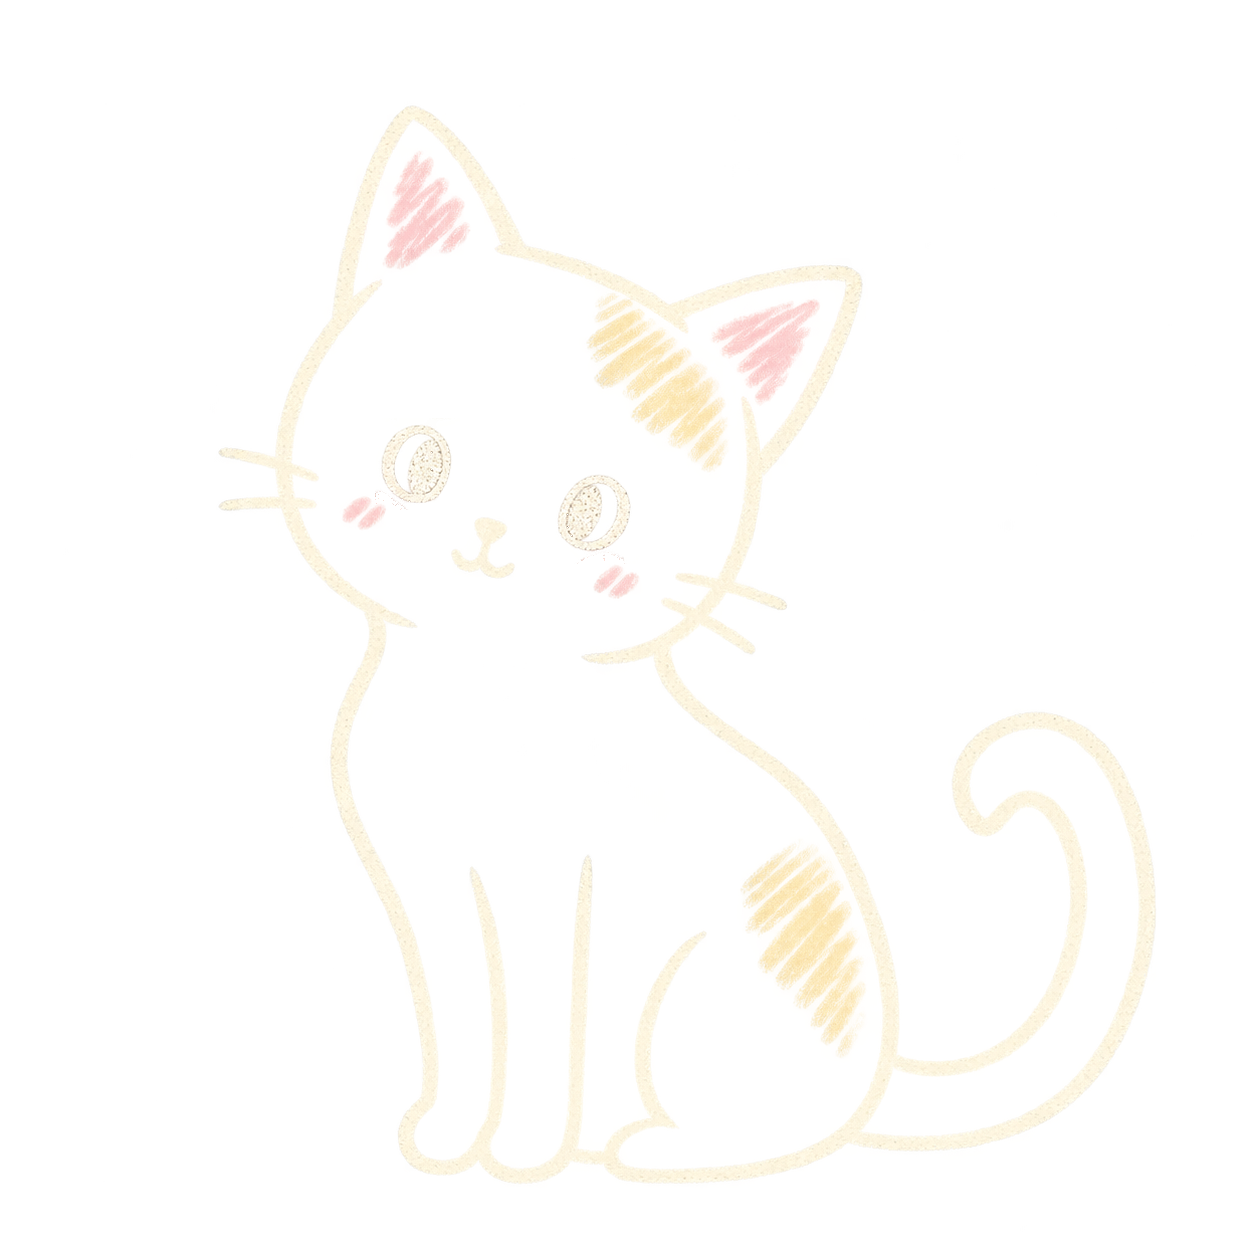
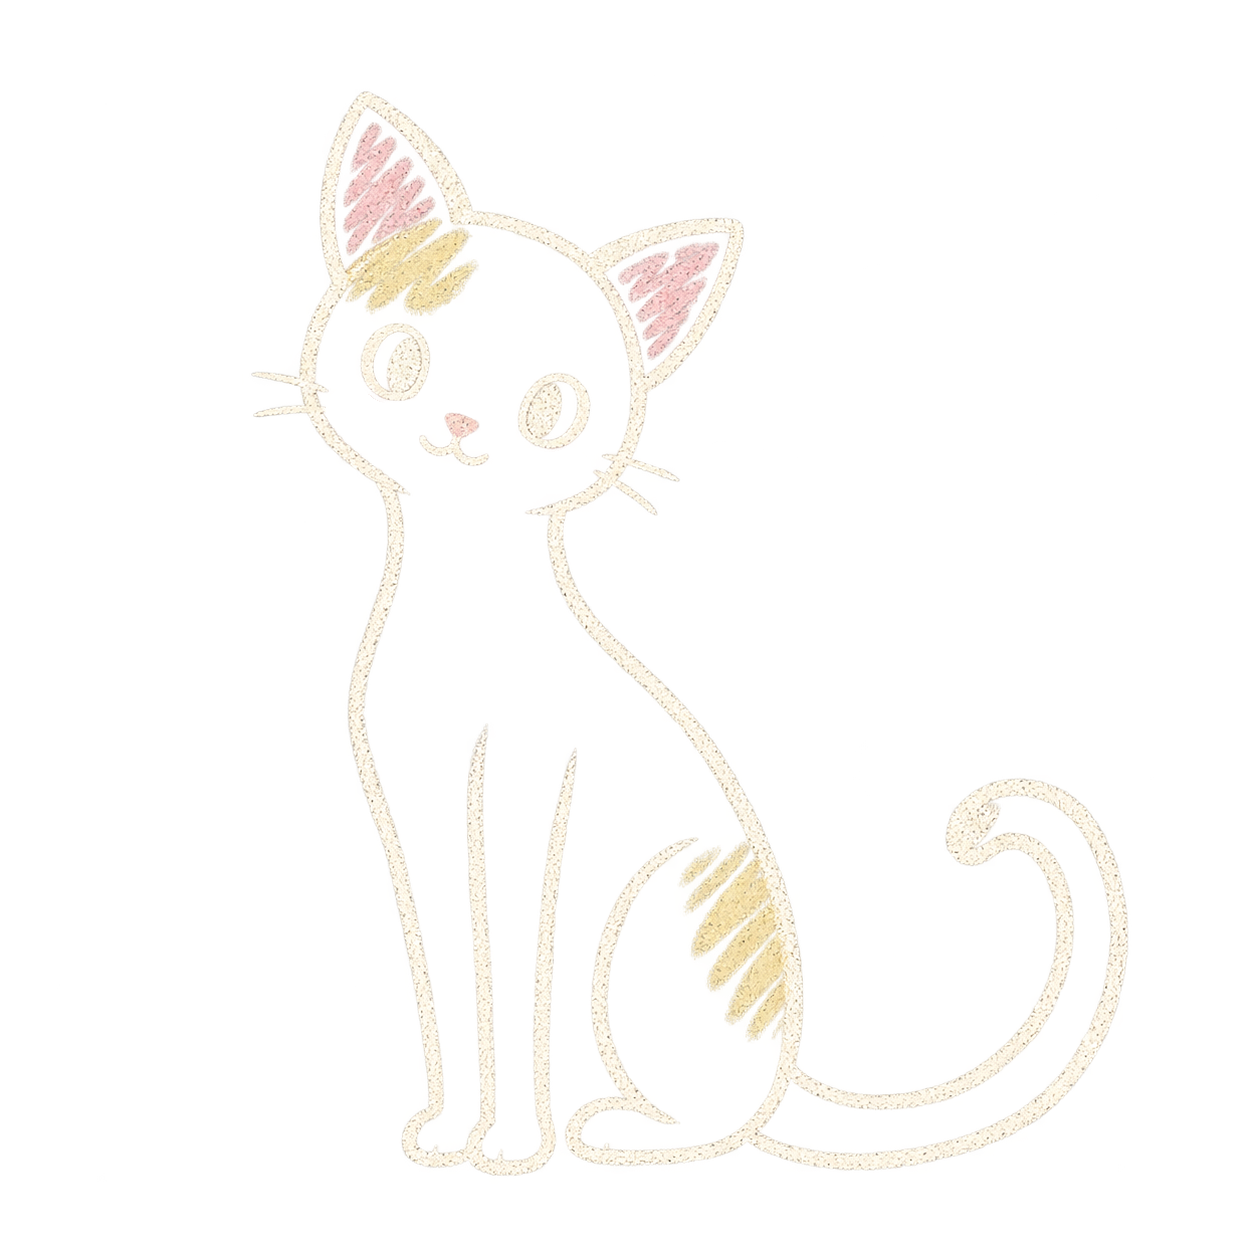
art: use selected sitting cat without cheek blush
Adopt the user's preferred tall sitting cat and erase only its two cheek
blush marks, preserving the ring eyes and all other source pixels.
Refresh the transparent web asset, portable preview and provenance.

Verified unchanged heart, star and balloon assets, local HTTP content
hashes, and all 12 entries of the rebuilt asset archive.

Changed region(s): [[0.1866, 0.0622, 0.8086, 0.9641], [0.7464, 0.5598, 0.933, 0.9019], [0.8086, 0.8086, 0.8397, 0.8397]]

diff --git a/public/classroom/chalk/handdrawn/preview.html b/public/classroom/chalk/handdrawn/preview.html
@@ -39,7 +39,7 @@
       <article><div class="board"><img class="large" src="heart.webp" alt="柔粉色粉笔爱心" width="512" height="512"><img class="small" src="heart.webp" alt="" width="52" height="52"></div><h2>爱心</h2><div class="files"><a href="heart.webp" download>网页图片</a><a href="heart.png" download>PNG 原图</a></div></article>
       <article><div class="board"><img class="large" src="stars.webp" alt="淡黄、暖白与浅蓝粉笔星星" width="512" height="512"><img class="small" src="stars.webp" alt="" width="52" height="52"></div><h2>星星</h2><div class="files"><a href="stars.webp" download>网页图片</a><a href="stars.png" download>PNG 原图</a></div></article>
       <article><div class="board"><img class="large" src="balloons.webp?v=8" alt="按参考图绘制的淡紫、淡黄与浅蓝三只粉笔气球" width="512" height="512"><img class="small" src="balloons.webp?v=8" alt="" width="52" height="52"></div><h2>三个气球</h2><div class="files"><a href="balloons.webp" download>网页图片</a><a href="balloons.png" download>PNG 原图</a></div></article>
-      <article><div class="board"><img class="large" src="cat.webp?v=9" alt="连贯粉笔轮廓的坐姿猫咪，带圆环眼睛、淡黄柔粉擦涂和卷尾" width="512" height="512"><img class="small" src="cat.webp?v=9" alt="" width="52" height="52"></div><h2>猫咪</h2><div class="files"><a href="cat.webp" download>网页图片</a><a href="cat.png" download>PNG 原图</a></div></article>
+      <article><div class="board"><img class="large" src="cat.webp?v=10" alt="高挑坐姿粉笔猫咪，圆环眼睛，脸颊无红晕，保留淡黄涂色与粉色鼻子和耳内" width="512" height="512"><img class="small" src="cat.webp?v=10" alt="" width="52" height="52"></div><h2>猫咪</h2><div class="files"><a href="cat.webp" download>网页图片</a><a href="cat.png" download>PNG 原图</a></div></article>
     </section>
     <p class="note">下方小样固定为 52 px。背景颜色来自页面，图片里的空白与粉笔颗粒间隙均为透明区域。</p>
   </main>

diff --git a/public/classroom/chalk/handdrawn/PROMPTS.md b/public/classroom/chalk/handdrawn/PROMPTS.md
@@ -4,7 +4,7 @@
 
 固定配色参考：[原始材质参照](../../../../docs/assets/classroom-approved-material-reference-2026-09-09.png)；配色值来自上一级粉笔素材说明。以下提示词使用文字描述这些要求，生成时没有把旧 SVG 作为编辑目标。
 
-生成图保留真实透明通道。爱心、星星与气球的 PNG 为生成原图，第九版猫咪采用坐姿版本与用户认可的圆环眼睛局部合成，具体处理见文末记录。WebP 为保持透明度的 512 × 512 网页缩放版本，仅等比缩小与无损编码。每款对应文件和推荐用法见 [README](README.md)。
+生成图保留真实透明通道。爱心、星星与气球的 PNG 为生成原图，当前第十版猫咪采用用户选定的高挑坐姿生成原图，仅局部去除双颊红晕，两个区域以外像素保持一致，具体处理见文末记录。WebP 为保持透明度的 512 × 512 网页缩放版本，仅等比缩小与无损编码。每款对应文件和推荐用法见 [README](README.md)。
 
 ## 第一版完整提示词
 
@@ -38,7 +38,7 @@ Subject: ONE very cute simple sitting kitten, front-facing, with a slightly tilt
 
 ## 第二版：气球绳线与猫咪手绘感
 
-2026-09-10，根据用户对气球绳线缺少粉笔感、猫咪过于精致的反馈更新。以下两段是第二版气球和猫咪采用的提示词。第二版气球的粉笔质感获用户认可，后续追加了自然倾角和遮挡关系要求；气球当前采用第八版，猫咪采用第九版，见文末记录。爱心和星星沿用第一版。使用内置 imagegen 分别重新生成透明素材，保留原调用地址；前两次图像编辑返回了带棋盘格的非透明文件，未采用。
+2026-09-10，根据用户对气球绳线缺少粉笔感、猫咪过于精致的反馈更新。以下两段是第二版气球和猫咪采用的提示词。第二版气球的粉笔质感获用户认可，后续追加了自然倾角和遮挡关系要求；气球当前采用第八版，猫咪采用第十版，见文末记录。爱心和星星沿用第一版。使用内置 imagegen 分别重新生成透明素材，保留原调用地址；前两次图像编辑返回了带棋盘格的非透明文件，未采用。
 
 ### balloons：第二版记录
 
@@ -223,4 +223,20 @@ TAIL: from behind right hip, one moderately slim full tail runs right along the 
 FACE: EXACTLY TWO SIMPLE FILLED IVORY OVAL EYES, little chubby ovals with softly granular chalk fill all the way across. Absolutely NO separate eye outline, hollow center, iris ring, pupil, eye socket or shiny highlight. Just two filled chalk dots/ovals like a simple marker-cat doodle. Tiny ivory nose and tiny handwritten curved smile, two short whisker lines extending just beyond each cheek. Facial marks are small, clear and economical, no elaborate expression.
 MATERIAL: warm ivory #f5efdb chalk linework on real alpha, in a quiet classroom chalk aesthetic. Lines are CONTINUOUS along their whole paths, not dashed, dotted or disconnected. Chalk pores may be tiny but do NOT introduce visible gaps across the entire stroke width. Keep readable contours with natural mild pressure variation and very slight freehand wobble, some gentle uneven turns; not perfect mechanical Bezier curves and not jagged polygon edges. Single slender-but-readable chalk traces, about 10-14px at 1254px canvas. All anatomy contours and the tail use a consistent visual line weight. No thick creamy tubes, doubled outlines, scratchy broken line clusters or diffuse dust clouds outside the drawing. Smoothness of the gesture is natural, not vector precision.
 COLOR: retain mostly empty transparent face, torso, legs and tail. Add one modest pale-yellow #efd28a chalk rubbed patch on one side of the forehead and one on the rounded right haunch. Tiny dusty-pink #e6b1ba rubbed inner ears and two very small soft cheek blush marks. Every colored area MUST show several short diagonal back-and-forth side-of-chalk strokes, uneven coverage with transparent grain and streaks like filling a chalk-drawn yellow star or pink heart. No digitally solid coloring, white base fur fill, photographic shading, gradients, glossy highlights or black filled areas. Eyes filled with IVORY CHALK only, never hollow. Very simple and easy to copy by hand, no text, logo, watermark, accessories, extra motifs, ground, paper, board, background or checkerboard. Actual alpha transparency.
+```
+
+## 第十版：指定高挑坐姿猫局部去除双颊红晕
+
+2026-09-11，用户选择此前生成的 `exec-593ced30-65fd-43cf-bced-02375f398aea.png`，要求去除脸上的红晕。本版采用该图的完整造型，仅清除两处面颊红晕的透明度，保留原始 RGB 和其他像素。圆环眼睛、鼻口与耳朵均经过原图对比，坐姿和尾巴保持原样。
+
[1 lines of base64/hex data omitted]
+
+两处面颊区域以椭圆限定，并排除相邻眼睛的保护椭圆：左侧中心 `(361,409)`、半径 `(36,27)`，右侧中心 `(556,469)`、半径 `(35,25)`。共清除 4,946 个像素的透明度，区域外变化为 0；记录见项目 `codex-generated/chalk-handdrawn-2026-09-10/revision-10/blush-removal-checks.json`。爱心、星星及已确认的第八版气球 PNG/WebP 保持原文件。
+
+### cat：未采用的局部生图编辑尝试
+
+曾使用内置 imagegen 附上述选定原图进行局部编辑，返回的 `exec-1cbe515b-11fb-47c9-97df-d1e5699b2b2d.png` 含绘制的棋盘格且改变了眼睛内部，因此未采用。以下为该次实际输入；最终素材来自选定原图的局部擦除，未使用该次编辑结果。
+
+```text
+Use case: precise-object-edit. Edit the supplied exact transparent chalk cat image. ONLY remove the TWO dusty-pink blush marks on its cheeks: the small pink patch under the left eye at approximately x=29%, y=32.5%, and the small pink patch under the right eye at approximately x=44.5%, y=37.5%. Erase these two cheek blush patches back to completely transparent empty space. Leave the nearby ivory eye rings, ivory face outlines, whiskers, mouth and small pink NOSE unchanged. Preserve the pink inner ears and the pale-yellow forehead and haunch coloring. Every other aspect of the supplied image must stay identical: the slender tall seated pose, long front legs, head tilt, ear shapes, round haunch, curved tail, natural continuous ivory chalk lines and their exact texture. Do not redraw or reinterpret the cat. No changes to proportions, placement, colors, grain, expression or ring-shaped eyes. Retain square canvas, original framing and size. Output an actual RGBA PNG with real transparent alpha background and transparent unfilled interiors. No checkerboard, no white or dark backing, no new background. This is an extremely localized erasure of two pink cheek marks, no other edit.
 ```

diff --git a/public/classroom/chalk/handdrawn/REFERENCES.md b/public/classroom/chalk/handdrawn/REFERENCES.md
@@ -13,7 +13,7 @@
 
 第六版气球采用三根独立的暖白粉笔线，中间接近竖直，两侧向组中心下方轻微倾斜；线条保留徒手偏差，宽度接近气球边缘。气球的不同倾角与前后关系通过形状和遮挡表达。当前第八版的构图以用户新提供的参考图为准，见下文。
 
-第六版猫咪的涂色参考项目现有 [爱心](heart.png) 与 [星星](stars.png)：以几笔斜向往返擦涂构成色块，留下不均匀的笔画接缝与透明颗粒；额头和身体一侧使用淡黄，耳内少量柔粉，脸部中央与大部分身体保持透明。该版采用用户当时参考画中的不等高耳朵与小身体造型。当前猫咪改为用户第九版新参考的坐姿，见下文。
+第六版猫咪的涂色参考项目现有 [爱心](heart.png) 与 [星星](stars.png)：以几笔斜向往返擦涂构成色块，留下不均匀的笔画接缝与透明颗粒；额头和身体一侧使用淡黄，耳内少量柔粉，脸部中央与大部分身体保持透明。该版采用用户当时参考画中的不等高耳朵与小身体造型。当前猫咪采用用户在第十版选定的高挑坐姿图，见下文。
 
 检索导出的八张图片中实际目视比较了以上六张。导出清单与图片保存在项目 `codex-generated/chalk-handdrawn-2026-09-10/references-v6/`，原图的来源地址可在导出清单中核对。此处商品链接来自图片预览显示的来源地址，未把商品描述作为画法依据。
 
@@ -25,6 +25,12 @@
 
 ## 第九版：用户新坐姿猫参考
 
-用户提供新的简笔坐姿猫图，采用稍微侧向的身体、两只独立前腿与向右上方卷回的尾巴。当前猫咪按此姿态重新制作，轮廓保持连贯，通过轻微粗细变化和粉笔颗粒体现徒手质感，不再刻意制造整段线条的断点。局部颜色继续参考既有粉笔填色方式，保持大部分内部区域透明。
+用户提供新的简笔坐姿猫图，采用稍微侧向的身体、两只独立前腿与向右上方卷回的尾巴。第九版猫咪按此姿态重新制作，轮廓保持连贯，通过轻微粗细变化和粉笔颗粒体现徒手质感，不再刻意制造整段线条的断点。局部颜色继续参考既有粉笔填色方式，保持大部分内部区域透明。
 
 用户在生成过程中明确认可圆环眼睛，因此最终图保留该细节。新的参考原图保存在项目 `codex-generated/chalk-handdrawn-2026-09-10/revision-9/cat-user-reference.png`，仅用于制作参考。气球已经获得确认，本次不再更改其图片文件。
+
+## 第十版：采用用户选定的高挑坐姿猫并去除红晕
+
+用户明确更喜欢此前生成的 `exec-593ced30-65fd-43cf-bced-02375f398aea.png`，要求去掉脸上的红晕。本版采用这张原图的完整造型，局部去除双颊粉色，保留原有圆环眼睛及细长坐姿，鼻子、耳内与身体上的粉笔涂色均保持原样。
+
+选定原图保存在项目 `codex-generated/chalk-handdrawn-2026-09-10/revision-10/selected-cat.png`。当前素材由该原图局部擦除获得，两个面颊区域以外像素无变化；第九版的主体与眼睛合成结果作为历史版本保留，气球及其他两款图案继续保持已确认版本。

diff --git a/public/classroom/chalk/handdrawn/README.md b/public/classroom/chalk/handdrawn/README.md
@@ -2,7 +2,7 @@
 
 这一套用于当前教室的灰绿色黑板，主要使用暖白、淡黄、柔粉和浅蓝；第八版气球根据用户指定参考增加淡紫。四款素材各自独立，背景透明，粉笔线条和涂色中的颗粒空隙可以透出网页背景。
 
-2026-09-11 第九版猫咪更新：根据用户新的坐姿猫参考，采用独立前腿、弯曲后腿和向右上方卷回的尾巴，轮廓保持连贯，通过轻微粗细变化与粉笔颗粒保留徒手质感。局部使用淡黄与柔粉擦涂，并按用户补充意见保留圆环眼睛。猫咪 PNG 和 WebP 已更新；气球固定为已确认的第八版，爱心和星星继续沿用原版。参考与采用方式见 [REFERENCES.md](REFERENCES.md)。
+2026-09-11 第十版猫咪更新：采用用户指定的高挑坐姿猫原图，局部去除双颊红晕，保留原有圆环眼睛、长前腿与卷尾，鼻子和耳内的柔粉以及额头和后腿的淡黄粉笔擦涂均保持原样。猫咪 PNG 和 WebP 已更新；气球固定为已确认的第八版，爱心和星星继续沿用原版。参考与采用方式见 [REFERENCES.md](REFERENCES.md)。
 
 | 图案 | 标识 | 网页文件 | 原始文件 |
 | --- | --- | --- | --- |
@@ -11,7 +11,7 @@
 | 三个气球 | `balloons` | [balloons.webp](balloons.webp) | [balloons.png](balloons.png) |
 | 猫咪 | `cat` | [cat.webp](cat.webp) | [cat.png](cat.png) |
 
-爱心、星星与气球的 PNG 保留生图原件；猫咪 PNG 将本次坐姿版本与用户认可的圆环眼睛局部合成，生成输入和验证结果见 [PROMPTS.md](PROMPTS.md)。WebP 为 512 × 512 像素，保留完整透明通道，按无损模式编码；缩小后适合常用的 160 像素展示尺寸，也可用于 52 像素的小图案。空白边缘是构图的一部分，图片应等比缩放，避免拉伸。
+爱心、星星与气球的 PNG 保留生图原件；猫咪 PNG 为用户指定的 1254 × 1254 像素生图原件局部去除双颊红晕的结果，两个局部区域以外像素保持一致，来源和验证结果见 [PROMPTS.md](PROMPTS.md)。WebP 为 512 × 512 像素，保留完整透明通道，按无损模式编码；缩小后适合常用的 160 像素展示尺寸，也可用于 52 像素的小图案。空白边缘是构图的一部分，图片应等比缩放，避免拉伸。
 
 ## 网页调用
 
